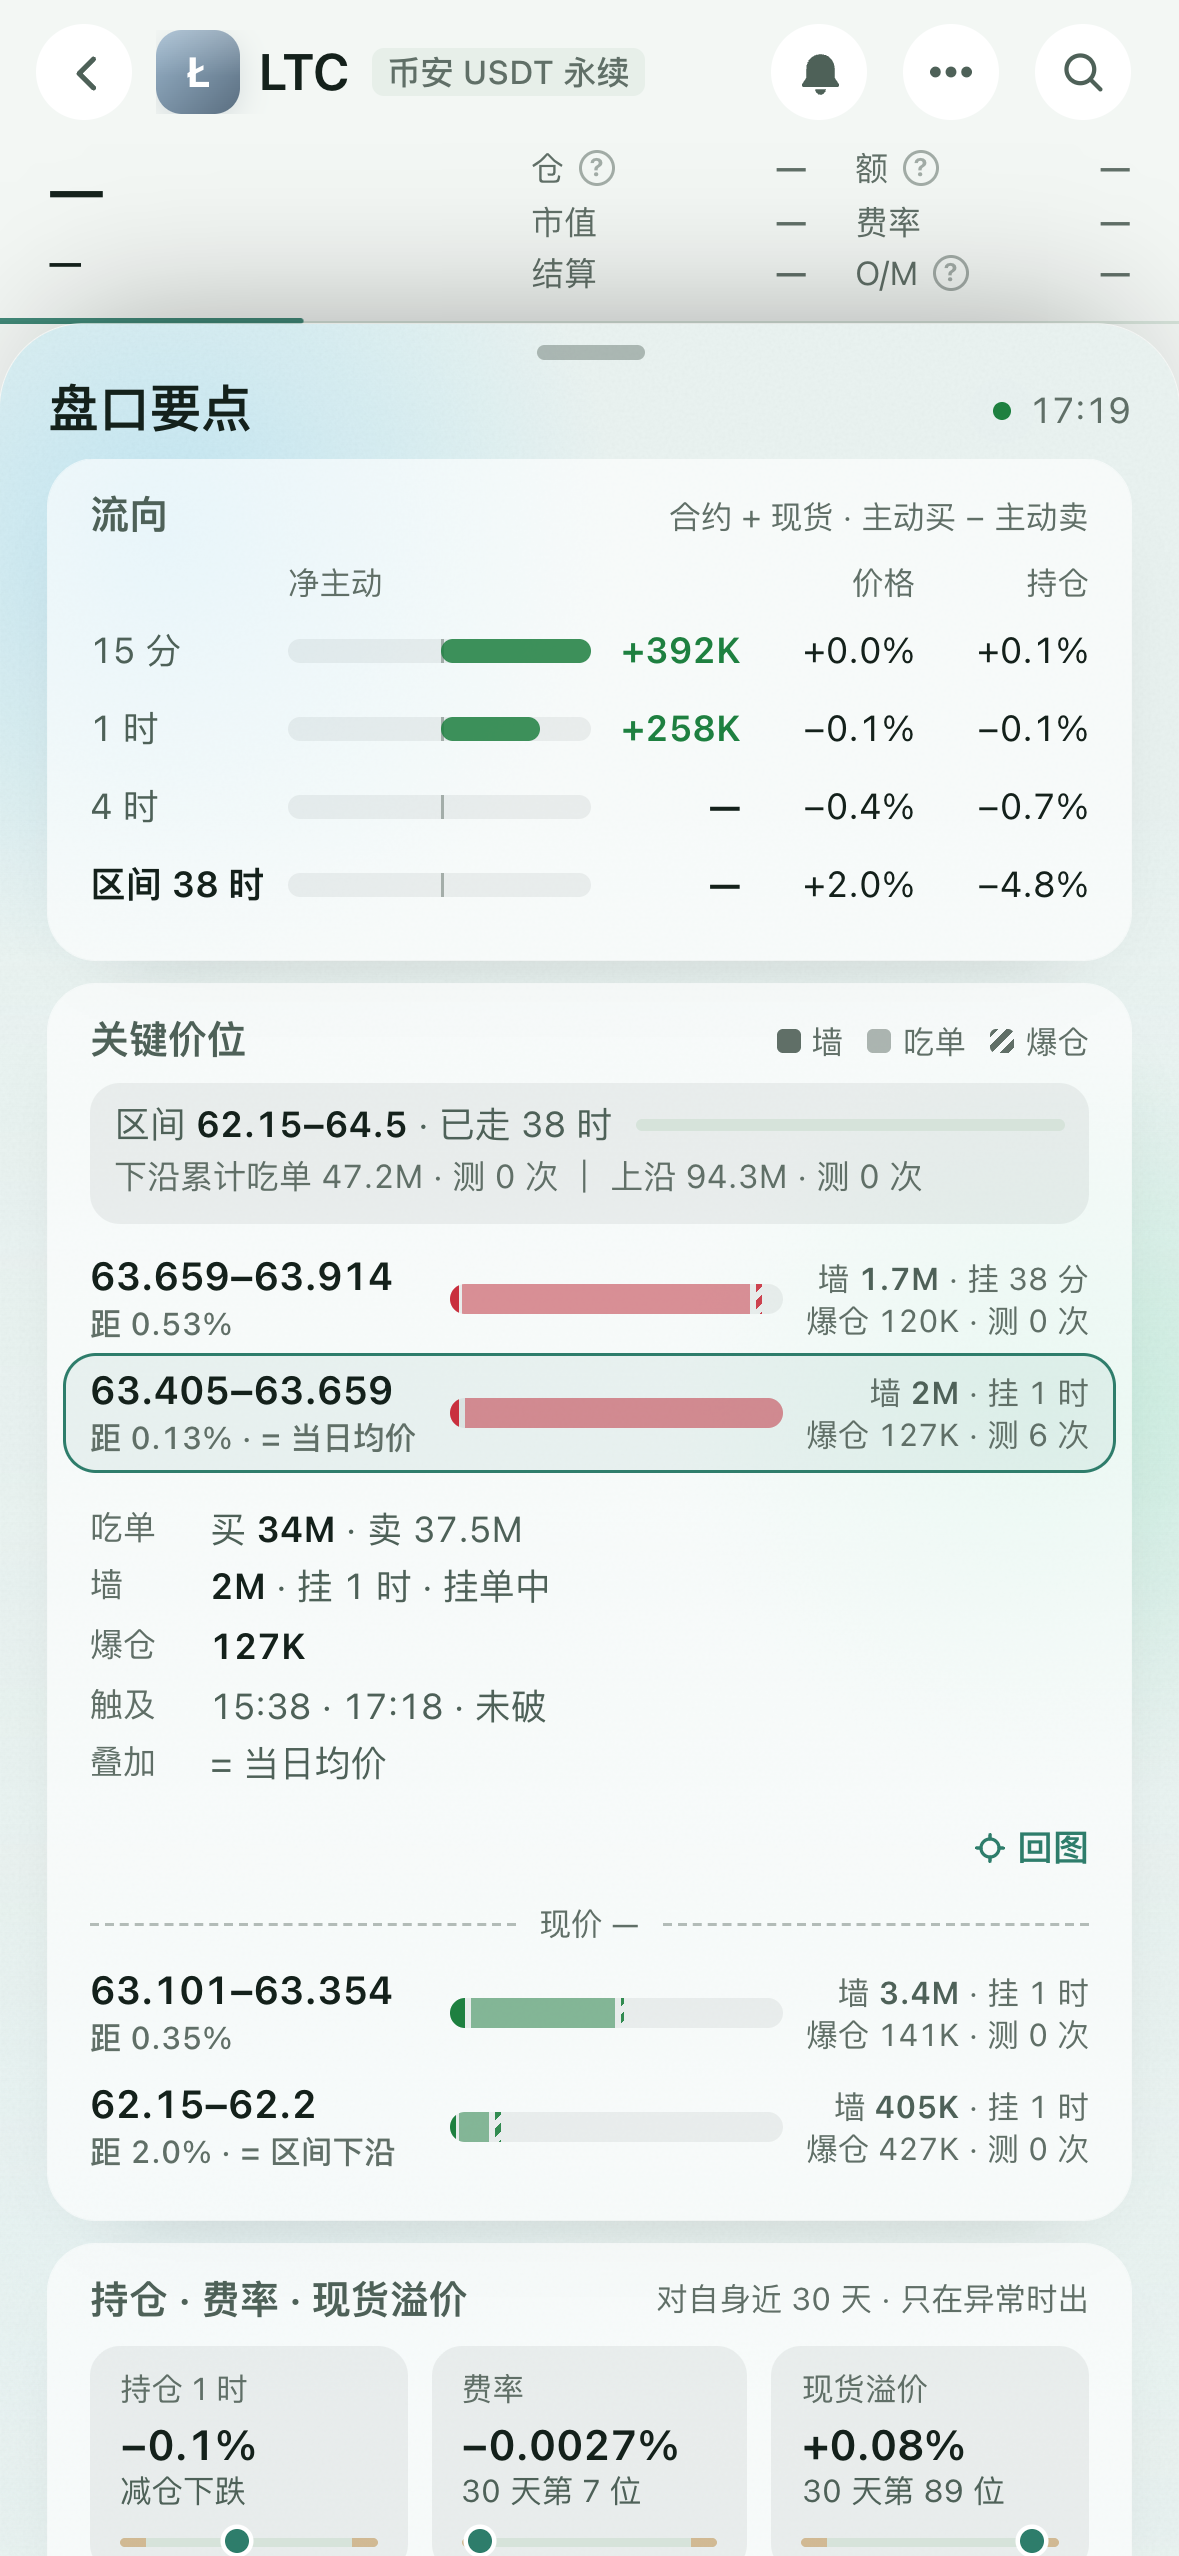
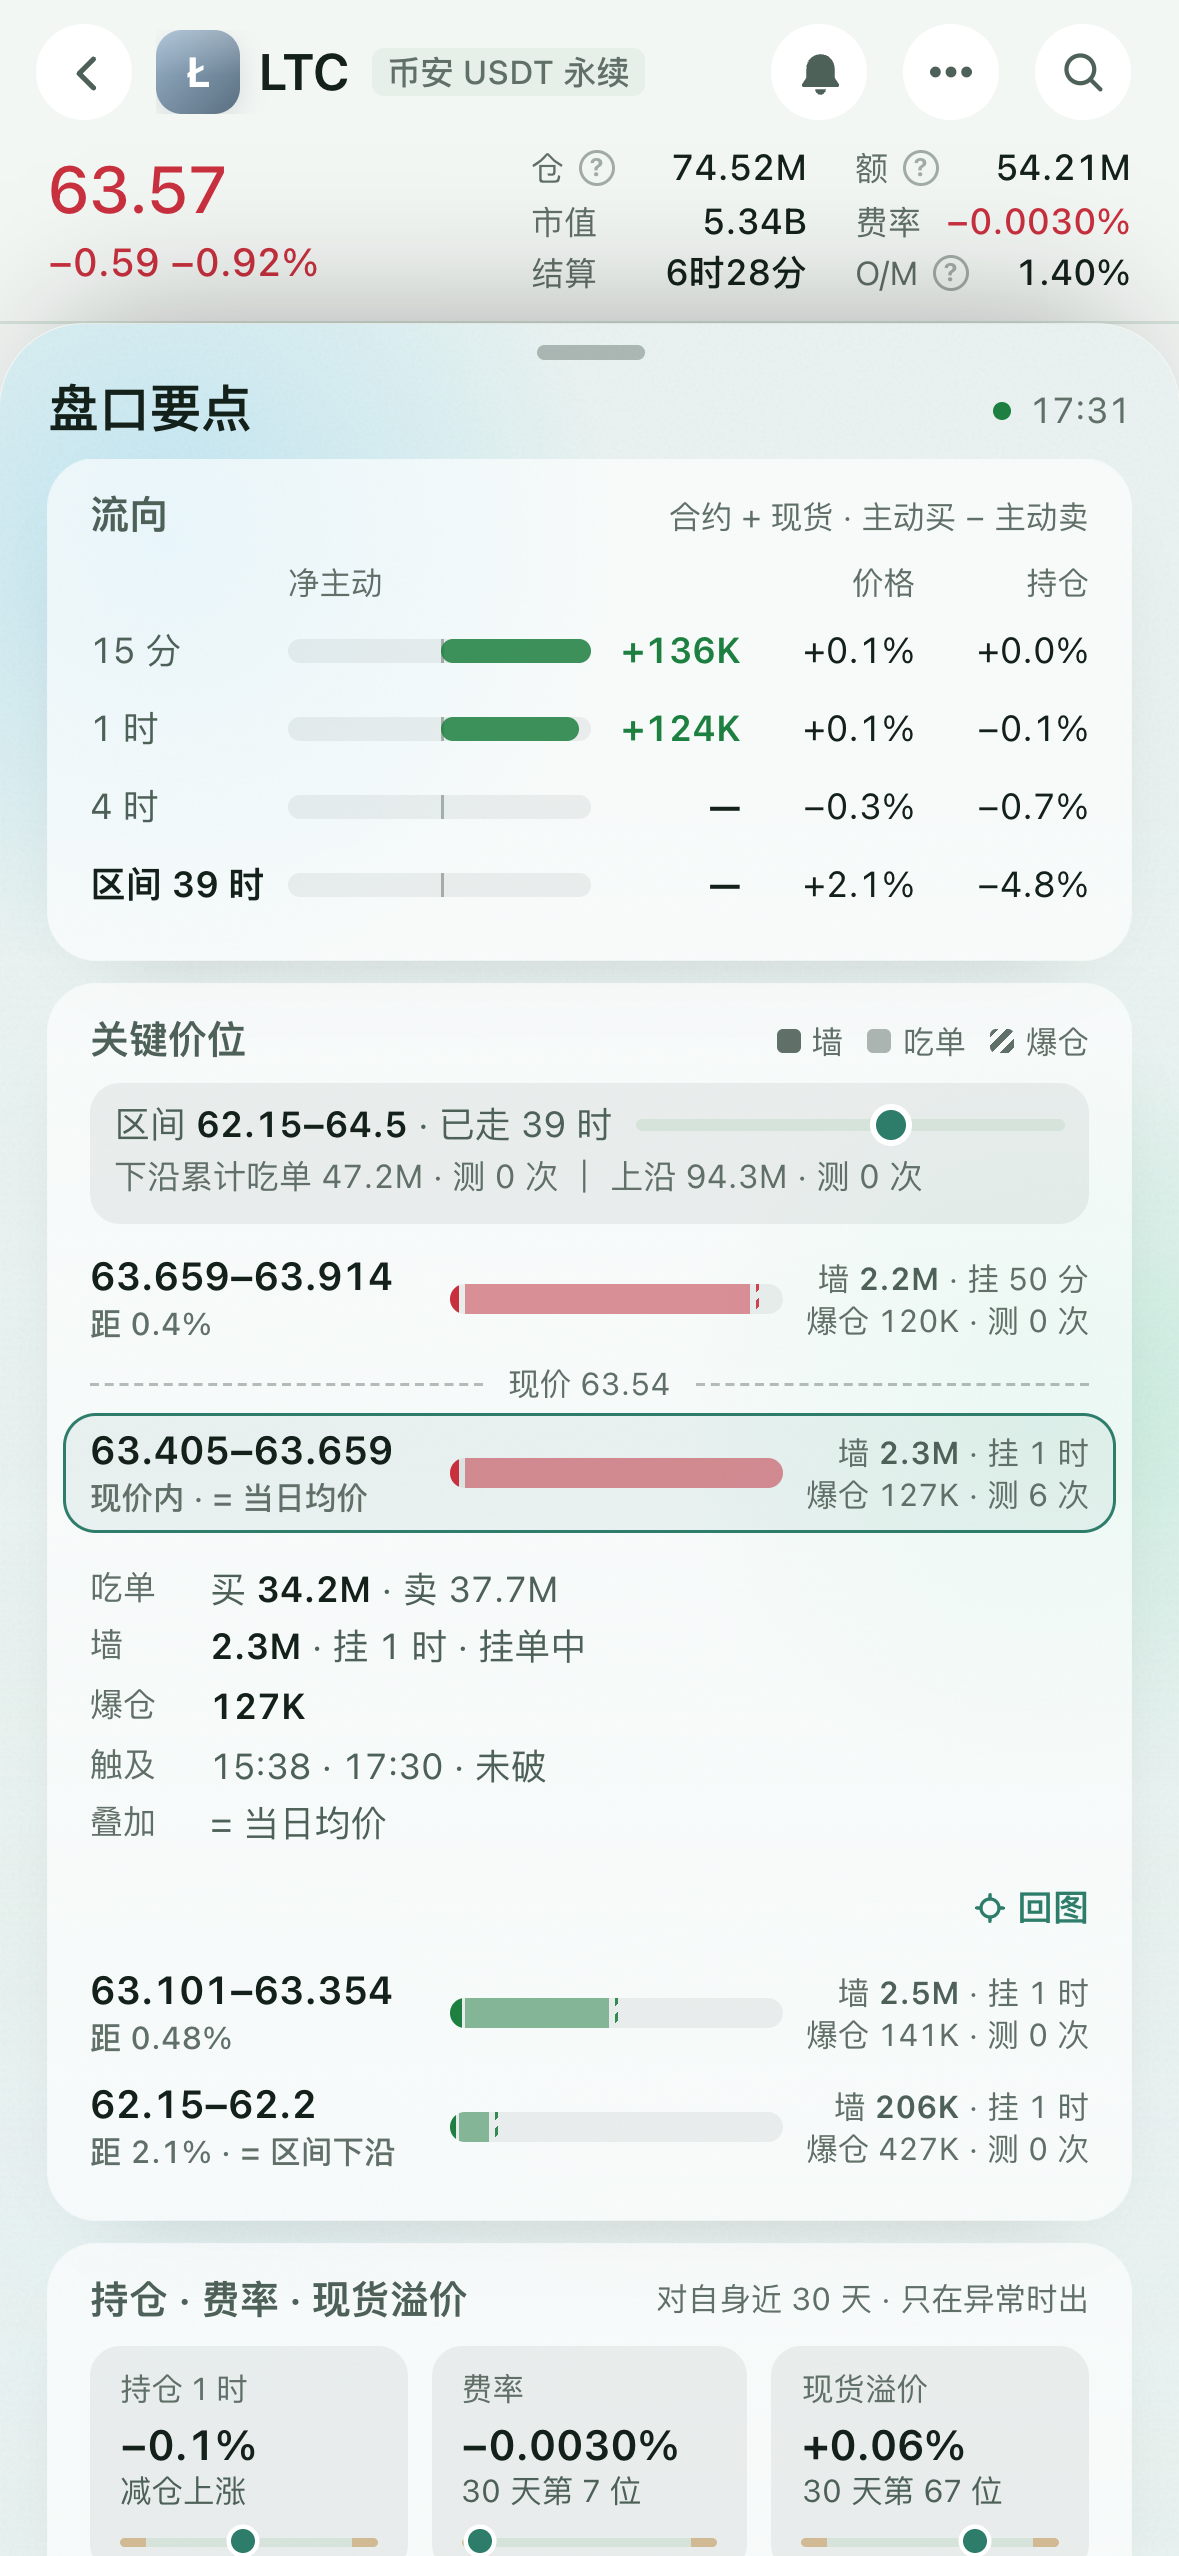
手机网页盘口要点：价区包住现价时写「现价内」，不再说上方 / 下方
- 用词表 highlights 组追加 atPrice「现价内」（只加不改名）
- 判定：low ≤ 现价 ≤ high，或服务端距离正好是 0
- 入口条、首页异动行的价位句写「现价内 63.405–63.659 卖区 2.3M · 挂 1 时」；入口条优先取包住现价的那条
- 关键价位梯子：这条紧贴现价线下面，距那格写「现价内」而不是「距 0.0%」
- 验收脚本可用 SKINS / THEMES 只跑一部分；换上青苔浅的入口条与半页截图

diff --git a/Web/src/highlights/format.ts b/Web/src/highlights/format.ts
@@ -97,20 +97,30 @@ export const zoneWord = (side: 'bid' | 'ask'): string => (side === 'bid' ? HL.bu
 export const levelFill = (l: Level): number => l.fillBuyUsd + l.fillSellUsd
 export const levelTotal = (l: Level): number => l.wallUsd + levelFill(l) + l.liqUsd
 
-/** 价位一句话（入口条、首页行）：下方 <b>86,120</b> 买区 35M · 挂 48 分 · 测 2 次 */
-export function levelSentence(l: Level, opts: { held?: boolean; tests?: boolean } = {}): string {
-  const dir = l.distPct < 0 ? HL.below : HL.above
+/** 价区把现价包在里面（low ≤ 现价 ≤ high，或服务端距离正好是 0）：不说上方 / 下方，写「现价内」 */
+export function straddles(l: Level, price: number | null | undefined): boolean {
+  if (price != null && Number.isFinite(price) && price > 0 && l.low <= price && price <= l.high) return true
+  return l.distPct === 0
+}
+
+/** 价位一句话（入口条、首页行）：下方 <b>86,120</b> 买区 35M · 挂 48 分 · 测 2 次；
+ *  价区包住现价时：现价内 <b>63.405–63.659</b> 卖区 12M · 挂 9 分 */
+export function levelSentence(l: Level, opts: { held?: boolean; tests?: boolean; price?: number | null } = {}): string {
   const amount = l.wallUsd > 0 ? b(usd(l.wallUsd)) : `${HL.fill} ${b(usd(levelFill(l)))}`
-  const parts = [`${dir} ${b(levelPx(l.low))} ${zoneWord(l.side)} ${amount}`]
+  const head = straddles(l, opts.price)
+    ? `${HL.atPrice} ${b(bandPx(l.low, l.high))}`
+    : `${l.distPct < 0 ? HL.below : HL.above} ${b(levelPx(l.low))}`
+  const parts = [`${head} ${zoneWord(l.side)} ${amount}`]
   if (opts.held !== false && l.wallUsd > 0 && l.wallHeldMs > 0) parts.push(fill(HL.heldFor, { d: heldText(l.wallHeldMs) }))
   if (opts.tests !== false && l.tests > 0) parts.push(fill(HL.tests, { n: l.tests }))
   return parts.join(' · ')
 }
 
-/** 离现价最近的那条价位 */
-export function nearestLevel(levels: readonly Level[]): Level | null {
+/** 离现价最近的那条价位（包住现价的优先） */
+export function nearestLevel(levels: readonly Level[], price?: number | null): Level | null {
   let best: Level | null = null
-  for (const l of levels) if (!best || Math.abs(l.distPct) < Math.abs(best.distPct)) best = l
+  const key = (l: Level): number => (straddles(l, price) ? -1 : Math.abs(l.distPct))
+  for (const l of levels) if (!best || key(l) < key(best)) best = l
   return best
 }
 
@@ -188,7 +198,7 @@ export function rangeHead(r: RangeBox, now: number): { band: string; hours: numb
 /** 首页行第二行的事实（HTML） */
 export function boardFact(r: BoardRow): string {
   const t = r.top
-  if (t.kind === 'level') return levelSentence(t, { held: false, tests: false })
+  if (t.kind === 'level') return levelSentence(t, { held: false, tests: false, price: r.price })
   if (t.kind === 'event') return eventSentence(t)
   if (r.cat === 'funding') {
     const n = t.funding.pctile
@@ -199,9 +209,9 @@ export function boardFact(r: BoardRow): string {
 
 /** 入口条那一句（HTML）；null = 没有要点，出 16 的抓手。
  *  有价位写离现价最近那条；没有价位但近 4 小时有事件，写「1 时净主动 +46M」；都没有就是抓手 */
-export function stripSentence(levels: readonly Level[], events: readonly HlEvent[], flow: readonly FlowRow[] | null): string | null {
-  const l = nearestLevel(levels)
-  if (l) return levelSentence(l)
+export function stripSentence(levels: readonly Level[], events: readonly HlEvent[], flow: readonly FlowRow[] | null, price: number | null = null): string | null {
+  const l = nearestLevel(levels, price)
+  if (l) return levelSentence(l, { price })
   if (!events.length) return null
   const h1 = flow?.find(r => r.w === '1h')?.netUsd
   if (h1 != null) return esc(fill(HL.flowLine, { v: '\u0001' })).replace('\u0001', b(signedUsd(h1)))

diff --git a/Web/src/m/pages/chart/highlightsSheet.ts b/Web/src/m/pages/chart/highlightsSheet.ts
@@ -14,7 +14,7 @@ import { HL, fill } from '../../../terms'
 import type { Highlights, HlEvent, Level } from '../../../highlights/api'
 import {
   usd, signedUsd, signedPct, distText, bandPx, levelPx, hhmm, heldText, wallStateWord, refWord, levelFill, levelTotal,
-  eventTime, eventSentence, eventIcon, flowLabel, positionCells, rangeHead, type EventIcon,
+  eventTime, eventSentence, eventIcon, flowLabel, positionCells, rangeHead, straddles, type EventIcon,
 } from '../../../highlights/format'
 import '../../styles/highlights.css'
 
@@ -72,7 +72,7 @@ export function flowBlockHTML(d: Highlights, now: number): string {
     + `<div class="hl-flow"><span class="th"></span><span class="th">${HL.netTaker}</span><span class="th r">${HL.price}</span><span class="th r">${HL.oi}</span>${body}</div></div>`
 }
 
-function levelRowHTML(l: Level, mx: number, open: boolean): string {
+function levelRowHTML(l: Level, mx: number, open: boolean, price: number | null): string {
   const seg = (v: number, cls: string): string => (v > 0 ? `<i class="${cls}" style="width:${Math.max(1.5, (v / mx) * 100).toFixed(1)}%"></i>` : '')
   const ref = l.refs.length ? ` · = ${refWord(l.refs[0])}` : ''
   const fillUsd = levelFill(l)
@@ -81,7 +81,7 @@ function levelRowHTML(l: Level, mx: number, open: boolean): string {
     : `${escA(HL.fill)} <b>${usd(fillUsd)}</b>`
   const meta2 = `${l.liqUsd > 0 ? `${escA(fill(HL.liqMeta, { v: usd(l.liqUsd) }))} · ` : ''}${escA(fill(HL.tests, { n: l.tests }))}`
   const row = `<button type="button" class="row${open ? ' open' : ''} ${l.side}" data-lv="${escA(l.id)}" aria-expanded="${open}">`
-    + `<span class="px">${bandPx(l.low, l.high)}<small>${escA(fill(HL.dist, { v: distText(l.distPct) }))}${escA(ref)}</small></span>`
+    + `<span class="px">${bandPx(l.low, l.high)}<small>${escA(straddles(l, price) ? HL.atPrice : fill(HL.dist, { v: distText(l.distPct) }))}${escA(ref)}</small></span>`
     + `<span class="bar">${seg(l.wallUsd, 'w')}${seg(fillUsd, 'f')}${seg(l.liqUsd, 'q')}</span>`
     + `<span class="meta">${meta1}<br>${meta2}</span></button>`
   if (!open) return row
@@ -109,8 +109,10 @@ export function levelsBlockHTML(d: Highlights, price: number | null, open: strin
   let mx = 0
   for (const l of d.levels) mx = Math.max(mx, levelTotal(l))
   if (!(mx > 0)) mx = 1
-  const above = d.levels.filter(l => l.distPct > 0)
-  const below = d.levels.filter(l => l.distPct <= 0)
+  // 包住现价的那条紧贴在现价线下面（不算上方也不算下方）
+  const at = d.levels.filter(l => straddles(l, price))
+  const above = d.levels.filter(l => !at.includes(l) && l.distPct > 0)
+  const below = [...at, ...d.levels.filter(l => !at.includes(l) && l.distPct <= 0)]
   let rng = ''
   if (d.range) {
     const r = d.range, h = rangeHead(r, now)
@@ -121,7 +123,7 @@ export function levelsBlockHTML(d: Highlights, price: number | null, open: strin
   }
   const nowRow = `<div class="now"><i></i>${escA(fill(HL.now, { p: price != null ? levelPx(price) : '—' }))}<i></i></div>`
   return `<div class="hl-blk" data-blk="levels"><div class="bt"><h5>${HL.levels}</h5><span class="cap"><i></i>${HL.wall}<i class="f"></i>${HL.fill}<i class="q"></i>${HL.liq}</span></div>`
-    + `<div class="hl-lv">${rng}${above.map(l => levelRowHTML(l, mx, l.id === open)).join('')}${nowRow}${below.map(l => levelRowHTML(l, mx, l.id === open)).join('')}</div></div>`
+    + `<div class="hl-lv">${rng}${above.map(l => levelRowHTML(l, mx, l.id === open, price)).join('')}${nowRow}${below.map(l => levelRowHTML(l, mx, l.id === open, price)).join('')}</div></div>`
 }
 
 export function positionBlockHTML(d: Highlights): string {

diff --git a/Web/tests/m-highlights.test.ts b/Web/tests/m-highlights.test.ts
@@ -4,7 +4,7 @@ import { describe, expect, it } from 'vitest'
 import { parseHighlights, parseBoard, parseMarketBoard, boardUrl, highlightsUrl, marketBoardUrl } from '../src/highlights/api'
 import {
   usd, signedUsd, signedPct, levelPx, bandPx, distText, hhmm, spanText, heldText, agoText, wallStateWord,
-  levelSentence, nearestLevel, eventSentence, eventTime, stripSentence, boardFact, positionCells, fundingText, flowLabel,
+  levelSentence, nearestLevel, straddles, eventSentence, eventTime, stripSentence, boardFact, positionCells, fundingText, flowLabel,
 } from '../src/highlights/format'
 import { bodyHTML, flowBlockHTML, levelsBlockHTML, positionBlockHTML, eventsBlockHTML } from '../src/m/pages/chart/highlightsSheet'
 import { setHighlightIntent, takeHighlightIntent } from '../src/m/pages/chart/highlightIntent'
@@ -116,6 +116,32 @@ describe('盘口要点 · 拼字', () => {
     expect(stripSentence([], [], d.flow)).toBeNull()
     const noWall = { ...near, wallUsd: 0, fillBuyUsd: 30e6, fillSellUsd: 18e6, distPct: 1.1, side: 'ask' as const }
     expect(levelSentence(noWall)).toBe('上方 <b>82,609</b> 卖区 吃单 <b>48M</b> · 测 27 次')
+  })
+  it('价区包住现价：不说上方 / 下方，写「现价内」和整段价区', () => {
+    const d = parseHighlights(SAMPLE, 'BTC')!
+    const near = nearestLevel(d.levels)!
+    const at = { ...near, id: 'L:at', low: 63.405, high: 63.659, distPct: 0.08, side: 'ask' as const, wallUsd: 12e6, wallHeldMs: 9 * 60_000, tests: 0 }
+    expect(straddles(at, 63.5)).toBe(true)
+    expect(straddles(at, 63.7)).toBe(false)
+    expect(straddles({ ...at, distPct: 0 }, null)).toBe(true)
+    expect(levelSentence(at, { price: 63.5 })).toBe('现价内 <b>63.405–63.659</b> 卖区 <b>12M</b> · 挂 9 分')
+    expect(levelSentence({ ...at, distPct: 0 })).toBe('现价内 <b>63.405–63.659</b> 卖区 <b>12M</b> · 挂 9 分')
+    // 入口条：包住现价的那条优先，哪怕别的距离更近
+    const far = { ...at, id: 'L:far', low: 63.1, high: 63.2, distPct: -0.01, side: 'bid' as const }
+    expect(nearestLevel([far, at], 63.5)!.id).toBe('L:at')
+    expect(stripSentence([far, at], [], null, 63.5)).toMatch(/^现价内 /)
+    // 首页行（服务端带 price）
+    expect(boardFact({ atMs: 1, base: 'LTC', cat: 'book', changePct: -1, count: 1, favorite: false, price: 63.5, tier: 3, top: { kind: 'level', ...at } })).toMatch(/^现价内 <b>63.405–63.659<\/b> 卖区/)
+  })
+  it('关键价位：包住现价的那条紧贴现价线下面，距那格写「现价内」', () => {
+    const d = parseHighlights(SAMPLE, 'BTC')!
+    const lv = d.levels.map(l => (l.id === 'L:14163' ? { ...l, low: 82650, high: 82750, distPct: 0.02 } : l))
+    const h = levelsBlockHTML({ ...d, levels: lv }, 82700, null, GEN)
+    const iNow = h.indexOf('class="now"'), iAt = h.indexOf('data-lv="L:14163"')
+    expect(iAt).toBeGreaterThan(iNow)
+    const row = h.slice(iAt, h.indexOf('</button>', iAt))
+    expect(row).toContain('<small>现价内')
+    expect(row).not.toContain('距 ')
   })
   it('事件句与时刻列', () => {
     const d = parseHighlights(SAMPLE, 'BTC')!

diff --git a/Web/src/m/pages/chart/highlights.ts b/Web/src/m/pages/chart/highlights.ts
@@ -152,7 +152,7 @@ export class HighlightsController {
     const hidden = this.d.hidden()
     this.strip.hidden = hidden
     const data = this.entry()?.data
-    const html = data && data.tracked ? stripSentence(data.levels, data.events, data.flow) : null
+    const html = data && data.tracked ? stripSentence(data.levels, data.events, data.flow, this.d.price()) : null
     this.lastBase = this.base()
     this.strip.classList.toggle('thin', html == null)
     this.strip.classList.toggle('stale', !!data && data.staleMs != null && data.staleMs > 0)
